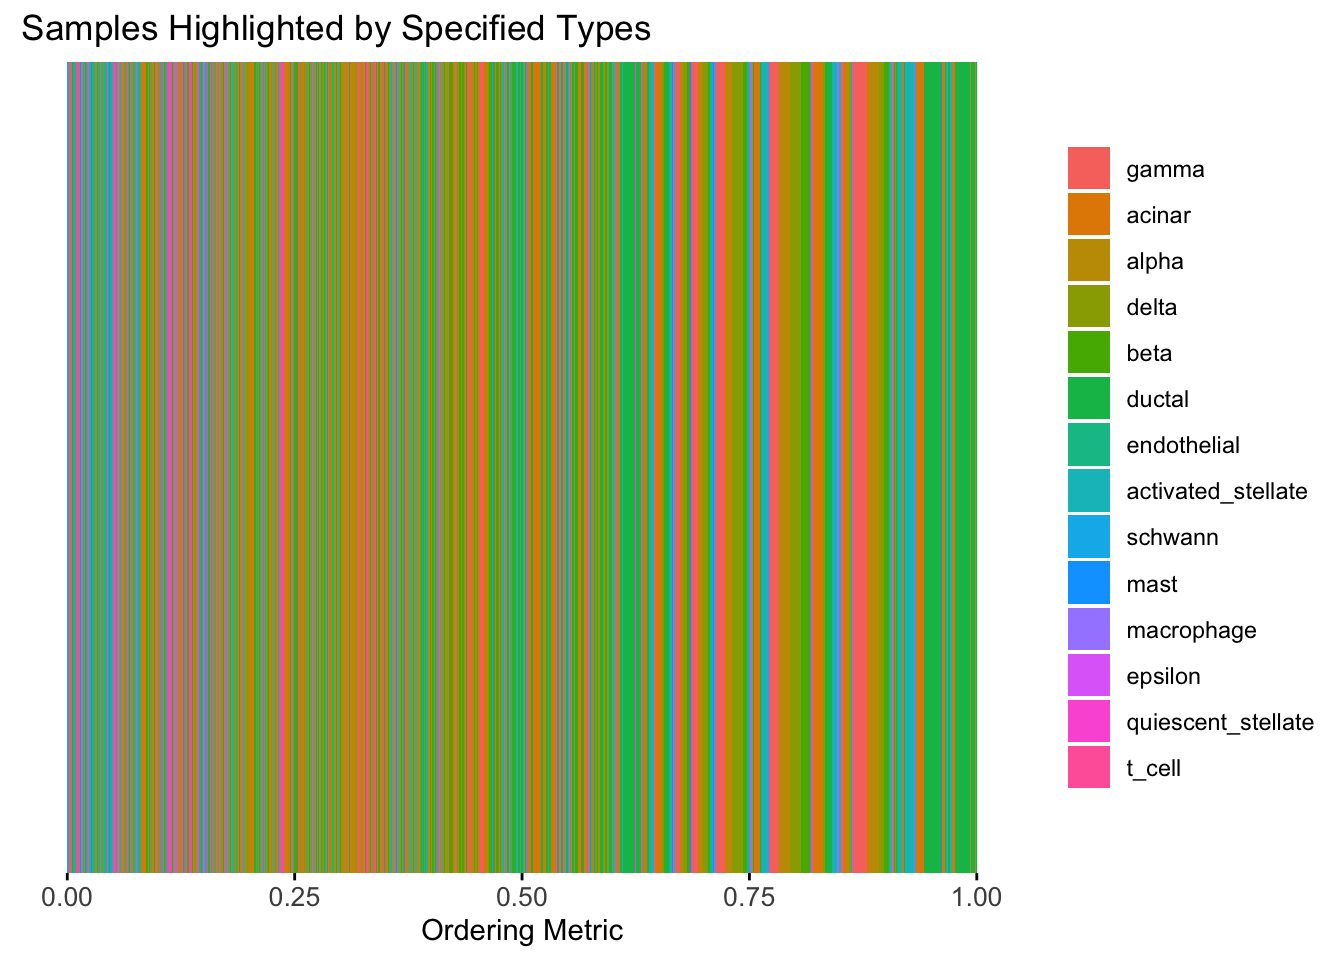
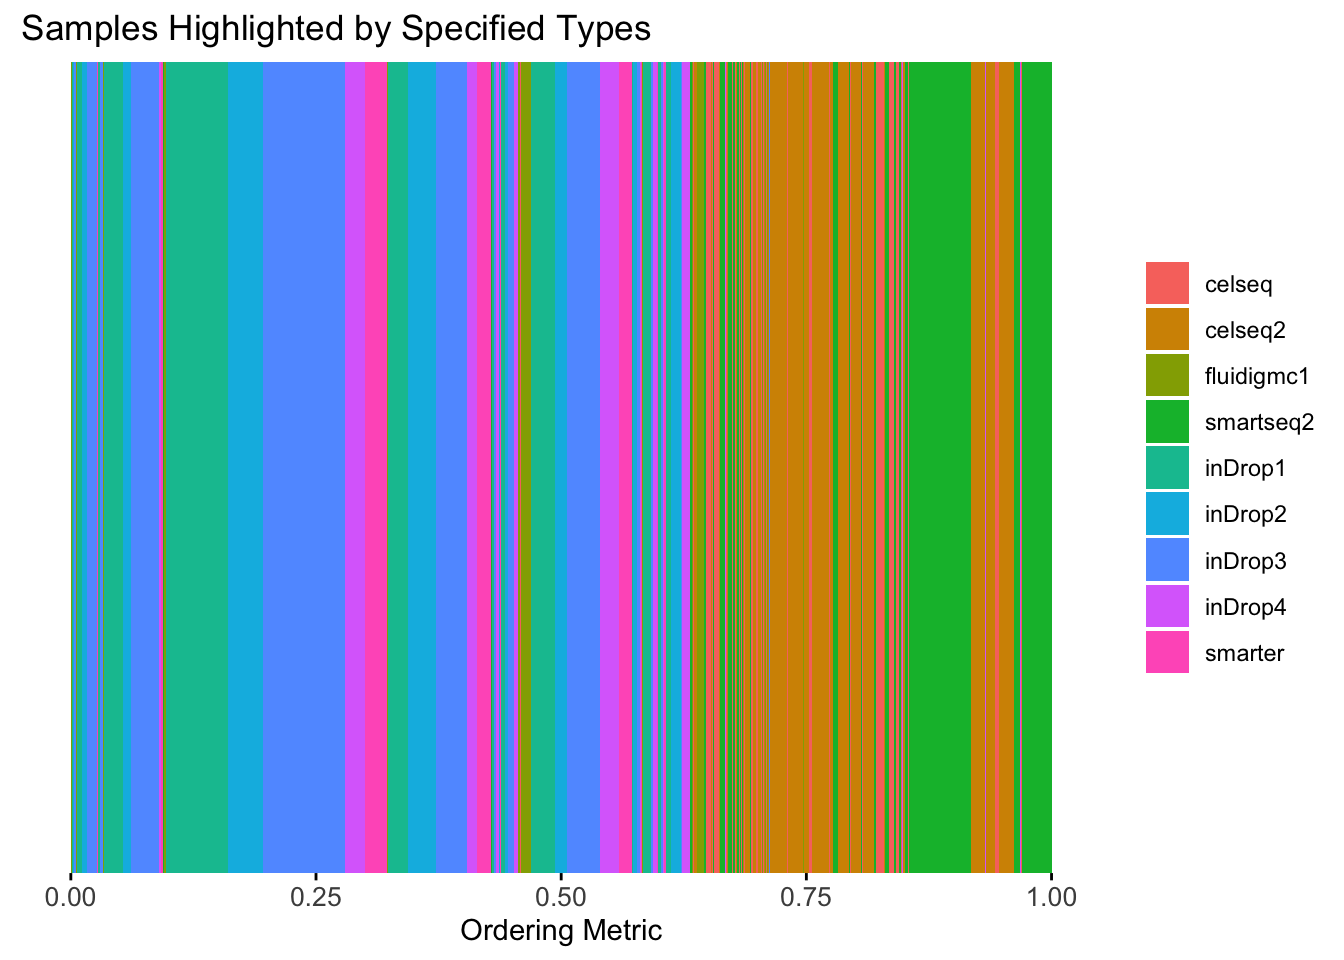
Build site.

diff --git a/docs/explore_SmoothEM_Mixture.html b/docs/explore_SmoothEM_Mixture.html
@@ -510,15 +510,15 @@ project makes it easier to run your code on other machines.</p>
 <div class="panel panel-default">
 <div class="panel-heading">
 <p class="panel-title">
-<a data-toggle="collapse" data-parent="#workflowr-checks" href="#strongRepositoryversionstrongahrefhttpsgithubcomAgueroZZInferOrdertree087d8d27beaf1175c8039b08a578807da230ab54targetblank087d8d2a">
+<a data-toggle="collapse" data-parent="#workflowr-checks" href="#strongRepositoryversionstrongahrefhttpsgithubcomAgueroZZInferOrdertree69b4aa5a4564e4195e9cc5f9fccc7ecb7a96bc0atargetblank69b4aa5a">
 <span class="glyphicon glyphicon-ok text-success"
 aria-hidden="true"></span> <strong>Repository version:</strong>
-<a href="https://github.com/AgueroZZ/InferOrder/tree/087d8d27beaf1175c8039b08a578807da230ab54" target="_blank">087d8d2</a>
+<a href="https://github.com/AgueroZZ/InferOrder/tree/69b4aa5a4564e4195e9cc5f9fccc7ecb7a96bc0a" target="_blank">69b4aa5</a>
 </a>
 </p>
 </div>
 <div
[2 lines of base64/hex data omitted]
 class="panel-collapse collapse">
 <div class="panel-body">
 <p>
@@ -528,7 +528,7 @@ reproducibility.
 </p>
 <p>
 The results in this page were generated with repository version
-<a href="https://github.com/AgueroZZ/InferOrder/tree/087d8d27beaf1175c8039b08a578807da230ab54" target="_blank">087d8d2</a>.
+<a href="https://github.com/AgueroZZ/InferOrder/tree/69b4aa5a4564e4195e9cc5f9fccc7ecb7a96bc0a" target="_blank">69b4aa5</a>.
 See the <em>Past versions</em> tab to see a history of the changes made
 to the R Markdown and HTML files.
 </p>
@@ -547,7 +547,6 @@ Ignored files:
     Ignored:    .Rhistory
     Ignored:    .Rproj.user/
     Ignored:    analysis/.DS_Store
-    Ignored:    analysis/figure/
     Ignored:    code/.Rhistory
 
 Untracked files:
@@ -601,6 +600,40 @@ Message
 </tr>
 </thead>
 <tbody>
+<tr>
+<td>
+Rmd
+</td>
+<td>
+<a href="https://github.com/AgueroZZ/InferOrder/blob/69b4aa5a4564e4195e9cc5f9fccc7ecb7a96bc0a/analysis/explore_SmoothEM_Mixture.rmd" target="_blank">69b4aa5</a>
+</td>
+<td>
+Ziang Zhang
+</td>
+<td>
+2025-08-01
+</td>
+<td>
+workflowr::wflow_publish("analysis/explore_SmoothEM_Mixture.rmd")
+</td>
+</tr>
+<tr>
+<td>
+html
+</td>
+<td>
+<a href="https://rawcdn.githack.com/AgueroZZ/InferOrder/428107027bb940c60c2cccc2e486b27f44d1366a/docs/explore_SmoothEM_Mixture.html" target="_blank">4281070</a>
+</td>
+<td>
+Ziang Zhang
+</td>
+<td>
+2025-08-01
+</td>
+<td>
+Build site.
+</td>
+</tr>
 <tr>
 <td>
 Rmd
@@ -1313,6 +1346,17 @@ Date
 <tbody>
 <tr>
 <td>
+<a href="https://github.com/AgueroZZ/InferOrder/blob/428107027bb940c60c2cccc2e486b27f44d1366a/docs/figure/explore_SmoothEM_Mixture.rmd/unnamed-chunk-6-1.png" target="_blank">4281070</a>
+</td>
+<td>
+Ziang Zhang
+</td>
+<td>
+2025-08-01
+</td>
+</tr>
+<tr>
+<td>
 <a href="https://github.com/AgueroZZ/InferOrder/blob/b4251d5a88689f50a307449a7a69b584c95c1a71/docs/figure/explore_SmoothEM_Mixture.rmd/unnamed-chunk-6-1.png" target="_blank">b4251d5</a>
 </td>
 <td>
@@ -1411,6 +1455,17 @@ Date
 </tr>
 </thead>
 <tbody>
+<tr>
+<td>
+<a href="https://github.com/AgueroZZ/InferOrder/blob/428107027bb940c60c2cccc2e486b27f44d1366a/docs/figure/explore_SmoothEM_Mixture.rmd/unnamed-chunk-7-1.png" target="_blank">4281070</a>
+</td>
+<td>
+Ziang Zhang
+</td>
+<td>
+2025-08-01
+</td>
+</tr>
 <tr>
 <td>
 <a href="https://github.com/AgueroZZ/InferOrder/blob/b4251d5a88689f50a307449a7a69b584c95c1a71/docs/figure/explore_SmoothEM_Mixture.rmd/unnamed-chunk-7-1.png" target="_blank">b4251d5</a>
@@ -1543,6 +1598,17 @@ Date
 <tbody>
 <tr>
 <td>
+<a href="https://github.com/AgueroZZ/InferOrder/blob/428107027bb940c60c2cccc2e486b27f44d1366a/docs/figure/explore_SmoothEM_Mixture.rmd/unnamed-chunk-9-1.png" target="_blank">4281070</a>
+</td>
+<td>
+Ziang Zhang
+</td>
+<td>
+2025-08-01
+</td>
+</tr>
+<tr>
+<td>
 <a href="https://github.com/AgueroZZ/InferOrder/blob/b4251d5a88689f50a307449a7a69b584c95c1a71/docs/figure/explore_SmoothEM_Mixture.rmd/unnamed-chunk-9-1.png" target="_blank">b4251d5</a>
 </td>
 <td>
@@ -1584,6 +1650,17 @@ Date
 </tr>
 </thead>
 <tbody>
+<tr>
+<td>
+<a href="https://github.com/AgueroZZ/InferOrder/blob/428107027bb940c60c2cccc2e486b27f44d1366a/docs/figure/explore_SmoothEM_Mixture.rmd/unnamed-chunk-10-1.png" target="_blank">4281070</a>
+</td>
+<td>
+Ziang Zhang
+</td>
+<td>
+2025-08-01
+</td>
+</tr>
 <tr>
 <td>
 <a href="https://github.com/AgueroZZ/InferOrder/blob/b4251d5a88689f50a307449a7a69b584c95c1a71/docs/figure/explore_SmoothEM_Mixture.rmd/unnamed-chunk-10-1.png" target="_blank">b4251d5</a>
@@ -1667,11 +1744,10 @@ Ziang Zhang
 </table>
 </div>
 </div>
-<p>Here it is natural to expect the cell-type factors to evolve more
-smoothly than the batch-type factors. Therefore, when applying the
-smooth EM algorithm, we will use the second order random walk prior for
-the first latent space, and the first order random walk prior for the
-second latent space.</p>
+<p>Apply the smooth EM algorithm to infer the two latent orderings, with
+the second order random walk prior for <span
+class="math inline">\(\boldsymbol{\mu}^{(1)}\)</span> and <span
+class="math inline">\(\boldsymbol{\mu}^{(2)}\)</span>.</p>
 <pre class="r"><code>resPancreas &lt;- two_ordering_smoothEM(
   X = Loadings, K = 50,
   init_method = &quot;pca&quot;,
@@ -1726,6 +1802,17 @@ Date
 <tbody>
 <tr>
 <td>
+<a href="https://github.com/AgueroZZ/InferOrder/blob/428107027bb940c60c2cccc2e486b27f44d1366a/docs/figure/explore_SmoothEM_Mixture.rmd/unnamed-chunk-16-1.png" target="_blank">4281070</a>
+</td>
+<td>
+Ziang Zhang
+</td>
+<td>
+2025-08-01
+</td>
+</tr>
+<tr>
+<td>
 <a href="https://github.com/AgueroZZ/InferOrder/blob/b4251d5a88689f50a307449a7a69b584c95c1a71/docs/figure/explore_SmoothEM_Mixture.rmd/unnamed-chunk-16-1.png" target="_blank">b4251d5</a>
 </td>
 <td>
@@ -1739,12 +1826,49 @@ Ziang Zhang
 </table>
 </div>
 </div>
-<pre class="r"><code>plot_highlight_types(type_vec = celltype,
-                     subset_types = unique(celltype),
+<pre class="r"><code>plot_highlight_types(type_vec = batchtype,
+                     subset_types = unique(batchtype),
                      order_vec = rownames(Loadings_J1)[Loadings_J1_order],
                      other_color = &quot;white&quot;
                      )</code></pre>
 <p><img src="figure/explore_SmoothEM_Mixture.rmd/unnamed-chunk-16-2.png" width="672" style="display: block; margin: auto;" /></p>
+<p>
+<button type="button" class="btn btn-default btn-xs btn-workflowr btn-workflowr-fig" data-toggle="collapse" data-target="#fig-unnamed-chunk-16-2">
+Past versions of unnamed-chunk-16-2.png
+</button>
+</p>
+<div id="fig-unnamed-chunk-16-2" class="collapse">
+<div class="table-responsive">
+<table class="table table-condensed table-hover">
+<thead>
+<tr>
+<th>
+Version
+</th>
+<th>
+Author
+</th>
+<th>
+Date
+</th>
+</tr>
+</thead>
+<tbody>
+<tr>
+<td>
+<a href="https://github.com/AgueroZZ/InferOrder/blob/428107027bb940c60c2cccc2e486b27f44d1366a/docs/figure/explore_SmoothEM_Mixture.rmd/unnamed-chunk-16-2.png" target="_blank">4281070</a>
+</td>
+<td>
+Ziang Zhang
+</td>
+<td>
+2025-08-01
+</td>
+</tr>
+</tbody>
+</table>
+</div>
+</div>
 <p>As well as the second latent ordering:</p>
 <pre class="r"><code>position_2 &lt;- apply(resPancreas$Gamma2, 1, which.max)
 Loadings_J2 &lt;- Loadings[, resPancreas$J2]
@@ -1776,6 +1900,17 @@ Date
 <tbody>
 <tr>
 <td>
+<a href="https://github.com/AgueroZZ/InferOrder/blob/428107027bb940c60c2cccc2e486b27f44d1366a/docs/figure/explore_SmoothEM_Mixture.rmd/unnamed-chunk-17-1.png" target="_blank">4281070</a>
+</td>
+<td>
+Ziang Zhang
+</td>
+<td>
+2025-08-01
+</td>
+</tr>
+<tr>
+<td>
 <a href="https://github.com/AgueroZZ/InferOrder/blob/b4251d5a88689f50a307449a7a69b584c95c1a71/docs/figure/explore_SmoothEM_Mixture.rmd/unnamed-chunk-17-1.png" target="_blank">b4251d5</a>
 </td>
 <td>
@@ -1789,12 +1924,49 @@ Ziang Zhang
 </table>
 </div>
 </div>
-<pre class="r"><code>plot_highlight_types(type_vec = batchtype,
-                     subset_types = unique(batchtype),
+<pre class="r"><code>plot_highlight_types(type_vec = celltype,
+                     subset_types = unique(celltype),
                      order_vec = rownames(Loadings_J2)[Loadings_J2_order],
                      other_color = &quot;white&quot;
                      )</code></pre>
 <p><img src="figure/explore_SmoothEM_Mixture.rmd/unnamed-chunk-17-2.png" width="672" style="display: block; margin: auto;" /></p>
+<p>
+<button type="button" class="btn btn-default btn-xs btn-workflowr btn-workflowr-fig" data-toggle="collapse" data-target="#fig-unnamed-chunk-17-2">
+Past versions of unnamed-chunk-17-2.png
+</button>
+</p>
+<div id="fig-unnamed-chunk-17-2" class="collapse">
+<div class="table-responsive">
+<table class="table table-condensed table-hover">
+<thead>
+<tr>
+<th>
+Version
+</th>
+<th>
+Author
+</th>
+<th>
+Date
+</th>
+</tr>
+</thead>
+<tbody>
+<tr>
+<td>
+<a href="https://github.com/AgueroZZ/InferOrder/blob/428107027bb940c60c2cccc2e486b27f44d1366a/docs/figure/explore_SmoothEM_Mixture.rmd/unnamed-chunk-17-2.png" target="_blank">4281070</a>
+</td>
+<td>
+Ziang Zhang
+</td>
+<td>
+2025-08-01
+</td>
+</tr>
+</tbody>
+</table>
+</div>
+</div>
 <br>
 <p>
 <button type="button" class="btn btn-default btn-workflowr btn-workflowr-sessioninfo" data-toggle="collapse" data-target="#workflowr-sessioninfo" style="display: block;">
